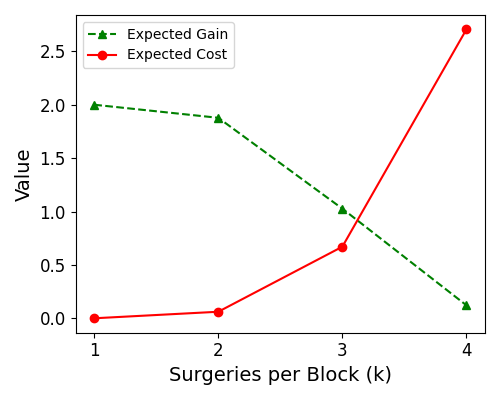
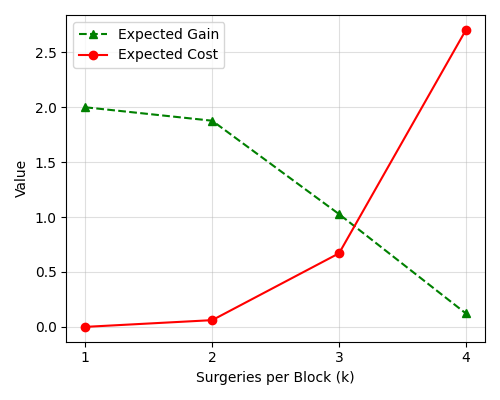
new images

diff --git a/images/framework.tex b/images/framework.tex
@@ -1,166 +1,173 @@
-\documentclass[a4paper, twoside, 12pt]{report}
-\usepackage{standalone}
-\usepackage[a4paper,showframe,width=150mm,top=25mm,bottom=25mm]{geometry}
-\usepackage[utf8]{inputenc}
-\usepackage{pgfplots}
-\usepackage{fixltx2e}
-\usepackage{siunitx}
-\usepackage{subfig}
-\usepackage{xcolor}
+% Arquivo TikZ refinado para reproduzir o framework original.
+% Requer no preâmbulo do documento principal:
+% \usepackage{tikz}
+% \usetikzlibrary{arrows.meta,calc,positioning}
 
-\usepackage[active,tightpage]{preview}
-\setlength{\PreviewBorder}{0pt}
-\usepackage{tikz}
-\PreviewEnvironment[{[]}]{tikzpicture}
-\begin{document}
 \begin{tikzpicture}[
-    font=\sffamily,
-    >={Stealth[length=3mm]},
-    line width=0.9pt,
-    node distance=6mm and 8mm,
-    
-    input/.style={
-        draw,
-        fill=white,
-        minimum width=2.6cm,
-        minimum height=1.5cm,
+    x=1cm,
+    y=1cm,
+    >=Stealth,
+    line cap=round,
+    line join=round,
+    % font=\sffamily\small,
+    arrow/.style={-{Stealth[length=3.2mm,width=3.8mm]}, line width=1.05pt},
+    conn/.style={line width=1.25pt},
+    panel/.style={draw=red!88!black, line width=3pt},
+    model/.style={
+        rectangle,
+        draw=blue!45!black,
+        fill=blue!18,
+        minimum height=1.48cm,
+        align=center,
+        % font=\sffamily\bfseries\small,
+        inner xsep=6pt,
+        inner ysep=5pt
+    },
+    greenblock/.style={
+        rectangle,
+        draw=green!45!black,
+        fill=green!18,
+        align=center,
+        % font=\sffamily\bfseries\small,
+        inner xsep=5pt,
+        inner ysep=4pt
+    },
+    title/.style={
+        % font=\sffamily\bfseries\itshape\Large,
         align=center
-    },
-    process/.style={
-        draw,
-        fill=blue!20,
-        minimum width=3.2cm,
-        minimum height=1.6cm,
-        align=center,
-        font=\bfseries
-    },
-    output/.style={
-        draw,
-        fill=green!20,
-        minimum width=2.5cm,
-        minimum height=1.5cm,
-        align=center,
-        font=\bfseries
-    },
-    bigbox/.style={
-        draw=red!85!black,
-        very thick,
-        inner sep=10pt,
-        rounded corners=1pt
-    },
-    every path/.style={draw, ->}
+    }
 ]
 
-% =========================================================
-% (i) Queue Management
-% =========================================================
+% ------------------------------------------------------------------
+% Caixas com canto dobrado, no estilo do draw.io.
+% Uso: \paperbox{nome}{(x,y)}{texto}{largura}{altura}
+% ------------------------------------------------------------------
+\newcommand{\paperbox}[5]{%
+    \node[rectangle, draw=black, fill=white, align=center,
+          minimum width=#4, minimum height=#5,
+          inner xsep=4pt, inner ysep=4pt] (#1) at #2 {#3};
+    \path (#1.north east) coordinate (#1ne);
+    \draw[draw=black, fill=white]
+        ($(#1ne)+(-0.34cm,0)$) -- (#1ne) --
+        ($(#1ne)+(0,-0.34cm)$) -- cycle;
+}
 
-\node[font=\bfseries\itshape\Large, anchor=west] (title1) at (0,8.6) {(i) Queue Management};
+\newcommand{\greenpaperbox}[5]{%
+    \node[greenblock, minimum width=#4, minimum height=#5] (#1) at #2 {#3};
+    \path (#1.north east) coordinate (#1ne);
+    \draw[draw=green!45!black, fill=green!18]
+        ($(#1ne)+(-0.36cm,0)$) -- (#1ne) --
+        ($(#1ne)+(0,-0.36cm)$) -- cycle;
+}
 
-\node[input, below=6mm of title1.west, anchor=west] (pdemand) {Patient\\demand\\probability\\distribution};
-\node[input, below=2mm of pdemand] (waitreq) {Waiting time\\requirement};
-\node[input, below=2mm of waitreq] (conf) {Confidence\\level};
+% ------------------------------------------------------------------
+% Molduras dos três módulos.
+% ------------------------------------------------------------------
+\draw[panel] (0.00,8.70) rectangle (7.75,14.25);
+\node[title] at (3.90,13.88) {(i) Queue Management};
 
-\node[process, right=1.8cm of waitreq] (rqpolicy) {(R,Q) Control\\Policy};
+\draw[panel] (0.00,0.00) rectangle (14.65,7.45);
+\node[title] at (7.30,7.06) {(ii) Overtime and Cancellation Management};
 
-\node[output, right=1.5cm of rqpolicy, yshift=1.1cm] (upperq) {Upper\\bound Q};
-\node[output, right=1.5cm of rqpolicy, yshift=-1.1cm] (lowerq) {Lower\\bound Q};
+\draw[panel] (15.65,0.40) rectangle (24.75,7.30);
+\node[title] at (20.20,6.90) {(iii) Operating Theatre Schedule};
 
-\draw (pdemand.east) -- ++(0.7,0) |- (rqpolicy.west);
-\draw (waitreq.east) -- (rqpolicy.west);
-\draw (conf.east) -- ++(0.7,0) |- (rqpolicy.west);
+% ------------------------------------------------------------------
+% (i) Queue Management.
+% Os blocos brancos foram espaçados verticalmente como no módulo (iii).
+% ------------------------------------------------------------------
+\paperbox{demand}{(1.20,12.65)}{Patient\\demand\\probability\\distribution}{1.50cm}{1.42cm}
+\paperbox{waiting}{(1.20,10.90)}{Waiting time\\requirement}{1.50cm}{1.42cm}
+\paperbox{confidence}{(1.20,9.15)}{Confidence\\level}{1.50cm}{1.42cm}
 
-\draw (rqpolicy.east) -- ++(0.45,0) |- (upperq.west);
-\draw (rqpolicy.east) -- ++(0.45,0) |- (lowerq.west);
+\node[model, minimum width=2.55cm] (rq) at (3.95,10.90) {$(R,Q)$ Control\\Policy};
+\greenpaperbox{upper}{(6.55,11.78)}{Upper\\bound Q}{1.38cm}{1.20cm}
+\greenpaperbox{lower}{(6.55,10.02)}{Lower\\bound Q}{1.38cm}{1.20cm}
 
-% Box around section (i)
-\node[bigbox, fit=(title1) (pdemand) (waitreq) (conf) (rqpolicy) (upperq) (lowerq)] (box1) {};
+% Entrada para a política (R,Q).
+\draw[conn] (demand.east) -- (2.28,12.65) -- (2.28,10.90);
+\draw[conn] (confidence.east) -- (2.28,9.15) -- (2.28,10.90);
+\draw[arrow] (waiting.east) -- (rq.west);
+\draw[arrow] (2.28,10.90) -- (rq.west);
 
-% =========================================================
-% Preprocessing
-% =========================================================
+% Saídas upper/lower bound Q.
+\draw[conn] (rq.east) -- (5.38,10.90);
+\draw[arrow] (5.38,10.90) |- (upper.west);
+\draw[arrow] (5.38,10.90) |- (lower.west);
 
-\node[process, minimum width=3.4cm, right=7.2cm of rqpolicy] (prep) {Preprocessing};
+% Junção das duas saídas Q para seguir ao Preprocessing.
+\draw[conn] (upper.east) -- (11.25,11.78) -- (11.25,10.90);
+\draw[conn] (lower.east) -- (11.25,10.02) -- (11.25,10.90);
 
-% Connector from queue outputs to preprocessing
-\coordinate[right=3.5cm of upperq.east] (mergeQ);
-\draw (upperq.east) -- (mergeQ |- upperq.east) |- (prep.west);
-\draw (lowerq.east) -- ++(3.2,0) |- (prep.west);
+% ------------------------------------------------------------------
+% (ii) Overtime and Cancellation Management.
+% Blocos brancos com o mesmo ritmo vertical do módulo (iii).
+% ------------------------------------------------------------------
+\paperbox{surgdur}{(1.20,5.85)}{Surgery\\duration\\probability\\distribution}{1.50cm}{1.42cm}
+\paperbox{otcost}{(1.20,4.15)}{Overtime\\cost}{1.50cm}{1.42cm}
+\paperbox{idlecost}{(1.20,2.45)}{Idle time\\cost}{1.50cm}{1.42cm}
+\paperbox{blocksize}{(1.20,0.75)}{Block size}{1.50cm}{1.42cm}
 
-% =========================================================
-% (ii) Overtime and Cancelation Management
-% =========================================================
+\node[model, minimum width=2.55cm] (newsvendor) at (4.25,3.30) {Newsvendor\\model};
+\greenpaperbox{fitprob}{(7.45,4.15)}{Probabilities\\of surgeries\\to fit into the\\block}{1.95cm}{1.58cm}
+\greenpaperbox{cancelprob}{(7.45,1.90)}{Probabilities\\of canceling\\the surgery}{1.95cm}{1.58cm}
+\node[model, minimum width=2.65cm] (inventory) at (10.55,3.30) {Inventory-\\based model};
+\greenpaperbox{numsurgeries}{(13.25,3.30)}{Number of\\surgeries to\\plan in a\\block}{1.65cm}{1.32cm}
 
-\node[font=\bfseries\itshape\Large, anchor=west] (title2) at (1.8,-0.2) {(ii) Overtime and Cancelation Management};
+% Entradas para o newsvendor.
+\draw[conn] (surgdur.east) -- (2.55,5.85) -- (2.55,3.30);
+\draw[conn] (otcost.east) -- (2.55,4.15);
+\draw[conn] (idlecost.east) -- (2.55,2.45);
+\draw[conn] (blocksize.east) -- (2.55,0.75) -- (2.55,3.30);
+\draw[arrow] (2.55,3.30) -- (newsvendor.west);
 
-\node[input, below=10mm of title2.west, anchor=west] (sdur) {Surgery\\duration\\probability\\distribution};
-\node[input, below=2mm of sdur] (ocost) {Overtime\\cost};
-\node[input, below=2mm of ocost] (icost) {Idle time\\cost};
-\node[input, below=2mm of icost] (bsize) {Block size};
+% Newsvendor para probabilidades.
+\draw[conn] (newsvendor.east) -- (5.95,3.30);
+\draw[arrow] (5.95,3.30) |- (fitprob.west);
+\draw[arrow] (5.95,3.30) |- (cancelprob.west);
 
-\node[process, right=2.0cm of ocost] (newsvendor) {Newsvendor\\model};
+% Probabilidades para modelo inventory-based.
+\draw[conn] (fitprob.east) -- (8.85,4.15) -- (8.85,3.30);
+\draw[conn] (cancelprob.east) -- (8.85,1.90) -- (8.85,3.30);
+\draw[arrow] (8.85,3.30) -- (inventory.west);
+\draw[arrow] (inventory.east) -- (numsurgeries.west);
 
-\node[output, right=1.6cm of newsvendor, yshift=1.2cm, minimum width=3.0cm, minimum height=1.8cm] (pfit)
-{Probabilities\\of surgeries\\to fit into the\\block};
+% ------------------------------------------------------------------
+% Preprocessing: junção limpa das duas fontes de entrada.
+% ------------------------------------------------------------------
+\node[model, minimum width=3.05cm, minimum height=0.78cm] (preproc) at (17.35,11.58) {Preprocessing};
 
-\node[output, right=1.6cm of newsvendor, yshift=-1.2cm, minimum width=3.0cm, minimum height=1.8cm] (pcancel)
-{Probabilities\\of canceling\\the surgery};
+% A saída do módulo (i) chega por uma linha horizontal superior.
+\draw[conn] (11.25,10.90) -- (15.60,10.90) -- (15.60,11.78);
 
-\node[process, right=2.2cm of pfit.south east, xshift=0.2cm, yshift=-1.25cm, minimum width=3.2cm, minimum height=1.8cm] (inventory)
-{Inventory-\\based model};
+% A saída do módulo (ii) sobe e chega por uma linha horizontal inferior.
+\draw[conn] (numsurgeries.east) -- (14.85,3.30) -- (14.85,11.38);
 
-\node[output, right=1.4cm of inventory, minimum width=2.7cm, minimum height=1.7cm] (nplan)
-{Number of\\surgeries to\\plan in a\\block};
+% Dois pequenos trechos finais com setas separadas, evitando cruzamento/ambiguidade.
+\draw[arrow] (15.60,11.78) -- ([yshift=0.20cm]preproc.west);
+\draw[arrow] (14.85,11.38) -- ([yshift=-0.20cm]preproc.west);
 
-\draw (sdur.east) -- ++(0.8,0) |- (newsvendor.west);
-\draw (ocost.east) -- ++(0.8,0) |- (newsvendor.west);
-\draw (icost.east) -- ++(0.8,0) |- (newsvendor.west);
-\draw (bsize.east) -- ++(0.8,0) |- (newsvendor.west);
+% ------------------------------------------------------------------
+% (iii) Operating Theatre Schedule.
+% ------------------------------------------------------------------
+\paperbox{compat}{(16.95,4.85)}{Theatre\\compatibility}{1.68cm}{1.42cm}
+\paperbox{teams}{(16.95,3.15)}{Teams\\availability}{1.68cm}{1.42cm}
+\paperbox{anaesth}{(16.95,1.45)}{Anaesthetists\\availability}{1.68cm}{1.42cm}
 
-\draw (newsvendor.east) -- ++(0.5,0) |- (pfit.west);
-\draw (newsvendor.east) -- ++(0.5,0) |- (pcancel.west);
+\node[model, minimum width=2.55cm] (milp) at (20.70,3.15) {MILP allocation\\model};
+\greenpaperbox{monthly}{(23.35,3.15)}{Monthly\\Theatre\\Schedule}{1.35cm}{1.18cm}
 
-\draw (pfit.east) -- (inventory.west |- pfit.east);
-\draw (pcancel.east) -- (inventory.west |- pcancel.east);
+% Preprocessing para o MILP.
+\draw[conn] (preproc.south) -- (17.35,6.05) -- (18.62,6.05) -- (18.62,3.76);
+\draw[arrow] (18.62,3.76) -- (milp.west);
 
-\draw (inventory.east) -- (nplan.west);
+% Restrições/entradas locais para o MILP.
+\draw[conn] (compat.east) -- (18.35,4.85) -- (18.35,3.15);
+\draw[conn] (anaesth.east) -- (18.35,1.45) -- (18.35,3.15);
+\draw[arrow] (teams.east) -- (milp.west);
+\draw[arrow] (18.35,3.15) -- (milp.west);
 
-% Box around section (ii)
-\node[bigbox, fit=(title2) (sdur) (ocost) (icost) (bsize) (newsvendor) (pfit) (pcancel) (inventory) (nplan)] (box2) {};
-
-% =========================================================
-% (iii) Operating Theatre Schedule
-% =========================================================
-
-\node[font=\bfseries\itshape\Large, anchor=west] (title3) at (19.3,0.0) {(iii) Operating Theatre Schedule};
-
-\node[input, below=10mm of title3.west, anchor=west] (compat) {Theatre\\compatibility};
-\node[input, below=2mm of compat] (teams) {Teams\\availability};
-\node[input, below=2mm of teams] (anes) {Anaesthetists\\availability};
-
-\node[process, right=1.8cm of teams, minimum width=3.2cm, minimum height=1.8cm] (milp) {MILP allocation\\model};
-
-\node[output, right=1.4cm of milp, minimum width=2.7cm, minimum height=1.8cm] (msched) {Monthly\\Theatre\\Schedule};
-
-\draw (compat.east) -- ++(0.8,0) |- (milp.west);
-\draw (teams.east) -- (milp.west);
-\draw (anes.east) -- ++(0.8,0) |- (milp.west);
-
-\draw (milp.east) -- (msched.west);
-
-% Box around section (iii)
-\node[bigbox, fit=(title3) (compat) (teams) (anes) (milp) (msched)] (box3) {};
-
-% =========================================================
-% Cross-section connections
-% =========================================================
-
-% From number of surgeries to preprocessing
-\draw (nplan.east) -- ++(2.2,0) |- ([yshift=-2mm]prep.west);
-
-% From preprocessing down to section (iii)
-\coordinate (downprep) at ($(prep.south)+(0,-1.7)$);
-\draw (prep.south) -- (downprep) -| ([yshift=8mm]milp.west);
+% Saída final.
+\draw[arrow] (milp.east) -- (monthly.west);
 
 \end{tikzpicture}
-\end{document}
